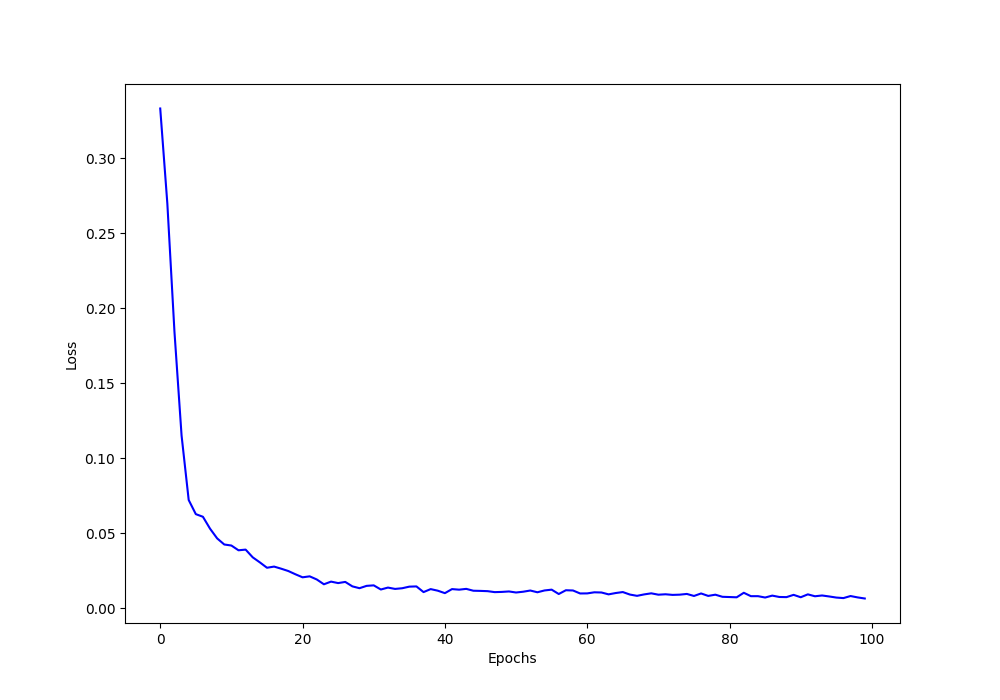
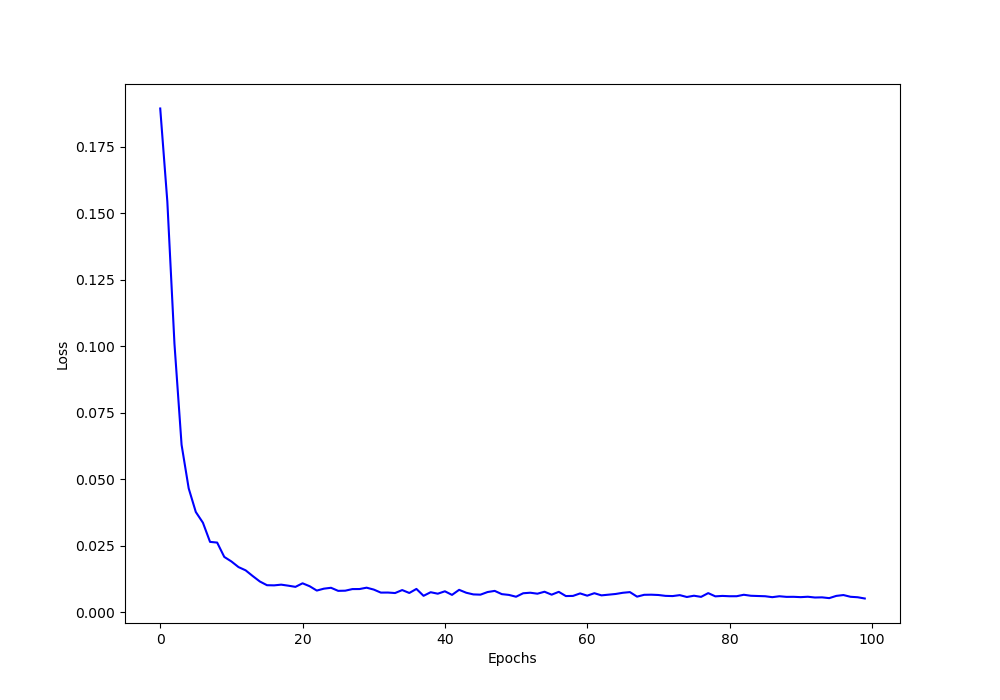
adding new results

diff --git a/main/LSTNet_v1/Test_v1.py b/main/LSTNet_v1/Test_v1.py
@@ -11,8 +11,8 @@ import seaborn as sns
 from datetime import datetime, timedelta
 from tqdm import tqdm
 
-from Dataloader_v2 import BaseCOVDataset
-from LSTNet_v2 import LSTNet_v2
+from Dataloader_v1 import BaseCOVDataset
+from LSTNet_v1 import LSTNet_v1
 
 import torch
 from torch.utils.data import Dataset, DataLoader
@@ -23,7 +23,7 @@ parser.add_argument('--GT_trends', default=None, type=str,
                     help='Define which Google Trends terms to use: all, related_average, or primary (default)')
 parser.add_argument('--batch_size', default=3, type=int,
                     help='Speficy the bath size for the model to train to')
-parser.add_argument('--model_load', default='LSTNet_v2_epochs_100_MSE', type=str,
+parser.add_argument('--model_load', default='LSTNet_v1_epochs_100_MSE', type=str,
                     help='Define which model to evaluate')
 
 args = parser.parse_args()
@@ -83,7 +83,7 @@ data_movement_change = data_movement_change.drop('poly_id', axis=1)
 
 ### Load Google Trends data for Bogota
 if args.GT_trends == None:
-    data_GT = pd.read_csv(data_GT_path, usecols=['date_time','anosmia','fiebre','covid','neumonia','sintomas covid'])
+    data_GT = pd.read_csv(data_GT_path, usecols=['date_time','anosmia','fiebre','covid'])
 elif args.GT_trends == 'all':
     data_GT = pd.read_csv(data_GT_path)
     data_GT = data_GT.drop('Unnamed: 0', axis=1)
@@ -117,8 +117,8 @@ print(f'Data from {start_dt} to {end_dt}')
 #--------------------------------------------------------------------------------------------------
 #----------------------------------------- Load model ----------------------------------------------
 
-model_path = os.path.join(main_path,'main','LSTNet_v2','Models','{}.pth'.format(args.model_load))
-model = LSTNet_v2()
+model_path = os.path.join(main_path,'main','LSTNet_v1','Models','{}.pth'.format(args.model_load))
+model = LSTNet_v1()
 model.load_state_dict(torch.load(model_path))
 
 #--------------------------------------------------------------------------------------------------
@@ -130,8 +130,7 @@ min_cases = data_input['num_cases_7dRA'].min() ; max_cases = data_input['num_cas
 min_diseased = data_input['num_diseased_7dRA'].min() ; max_diseased = data_input['num_diseased_7dRA'].max()
 min_movement = data_input['movement_change_7dRA'].min() ; max_movement = data_input['movement_change_7dRA'].max()
 min_anosmia = data_input['anosmia'].min() ; max_anosmia = data_input['anosmia'].max()
-min_neumonia = data_input['neumonia'].min() ; max_neumonia = data_input['neumonia'].max()
-min_sintomas = data_input['sintomas covid'].min() ; max_sintomas = data_input['sintomas covid'].max()
+# min_tos = data_input['tos'].min() ; max_tos = data_input['tos'].max()
 min_fiebre = data_input['fiebre'].min() ; max_fiebre = data_input['fiebre'].max()
 min_covid = data_input['covid'].min() ; max_covid = data_input['covid'].max()
 
@@ -139,8 +138,7 @@ data_input.loc[:,'num_cases-N'] = (data_input['num_cases_7dRA']-min_cases)/(max_
 data_input.loc[:,'num_diseased-N'] = (data_input['num_diseased_7dRA']-min_diseased)/(max_diseased-min_diseased)
 data_input.loc[:,'movement-N'] = (data_input['movement_change_7dRA']-min_movement)/(max_movement-min_movement)
 data_input.loc[:,'anosmia-N'] = (data_input['anosmia']-min_anosmia)/(max_anosmia-min_anosmia)
-data_input.loc[:,'neumonia-N'] = (data_input['neumonia']-min_neumonia)/(max_neumonia-min_neumonia)
-data_input.loc[:,'sintomas_covid-N'] = (data_input['sintomas covid']-min_neumonia)/(max_neumonia-min_neumonia)
+# # data_input.loc[:,'tos-N'] = (data_input['tos']-min_tos)/(max_tos-min_tos)
 data_input.loc[:,'fiebre-N'] = (data_input['fiebre']-min_fiebre)/(max_fiebre-min_fiebre)
 data_input.loc[:,'covid-N'] = (data_input['covid']-min_covid)/(max_covid-min_covid)
 
@@ -152,35 +150,48 @@ data_loader = DataLoader(dataset, batch_size=args.batch_size, shuffle=False)
 
 #--------------------------------------------------------------------------------------------------
 #----------------------------------------- Test model ---------------------------------------------
-
-pred_forecast = predict(model, data_loader, min_cases, max_cases)
-
-pred_forecast['date_time'] = pd.Series(pred_forecast.index).apply(lambda x: \
-                                    data_all['date_time'][x+18])
-pred_forecast = pred_forecast[['date_time','forecast_cases']]
-
-#--------------------------------------------------------------------------------------------------
-#-------------------------------------- Viz predictions -------------------------------------------
+def mean_absolute_percentage_error(y_true, y_pred): 
+    y_true, y_pred = np.array(y_true), np.array(y_pred)
+    return np.mean(np.abs((y_true - y_pred) / y_true)) * 100
 
 time_mask = datetime.strptime('2021-04-04','%Y-%m-%d')
 data_mask = data_input['date_time'] >= time_mask
 actual_data = data_input[data_mask].copy()
 actual_data['date_time'] = pd.to_datetime(actual_data['date_time'], format='%Y-%m-%d')
-pred_mask = pred_forecast['date_time'] >= time_mask
-predict_data = pred_forecast[pred_mask].copy()
-predict_data['date_time'] = pd.to_datetime(predict_data['date_time'], format='%Y-%m-%d')
 
-# Calculate MSE
-true_arr = np.array(actual_data['num_cases_7dRA'].tolist())
-pred_arr = np.array(predict_data['forecast_cases'].tolist())
-difference_array = np.subtract(true_arr, pred_arr)
-squared_array = np.square(difference_array)
-mse = squared_array.mean()
+NRUNS = 50
+df_preds = []
+for i in range(NRUNS):
 
-print('MSE: ' + str(mse))
+    pred_forecast = predict(model, data_loader, min_cases, max_cases)
+
+    pred_forecast['date_time'] = pd.Series(pred_forecast.index).apply(lambda x: \
+                                        data_all['date_time'][x+18])
+    pred_forecast = pred_forecast[['date_time','forecast_cases']]
+
+    #--------------------------------------------------------------------------------------------------
+    #-------------------------------------- Save predictions -------------------------------------------
+
+    pred_mask = pred_forecast['date_time'] >= time_mask
+    predict_data = pred_forecast[pred_mask].copy()
+    predict_data['date_time'] = pd.to_datetime(predict_data['date_time'], format='%Y-%m-%d')
+
+    # Calculate MSE
+    true_arr = np.array(actual_data['num_cases_7dRA'].tolist())
+    pred_arr = np.array(predict_data['forecast_cases'].tolist())
+    mape = mean_absolute_percentage_error(true_arr,pred_arr)
+    print('MAPE: ' + str(mape))
+
+    # Save
+    predict_data['run'] = ['run_{}'.format(i)]*len(predict_data)
+    predict_data['MAPE'] = [mape]*len(predict_data)
+    df_preds.append(predict_data)
+
+df_preds = pd.concat(df_preds)
+
+
 
 # Plot
-
 data_plot = data_input[data_input['date_time'] >  datetime.strptime('2021-01-01','%Y-%m-%d')]
 
 plt.rc('grid', color='w', linestyle='solid')
@@ -190,7 +201,7 @@ ax.plot(predict_data['date_time'],predict_data['forecast_cases'], color='darkora
 ax.legend(loc='best', fontsize=15)
 ax.set_xlabel('Days', fontsize=18)
 ax.set_ylabel('Number of cases', fontsize=18)
-plt.savefig(os.path.join(main_path,'main','LSTNet_v2','Log','Figures',
+plt.savefig(os.path.join(main_path,'main','LSTNet_v1','Log','Figures',
                                 f'Predictions_{args.model_load}.png'))
 
 print('end')

diff --git a/main/LSTNet_v1/Train_v1.py b/main/LSTNet_v1/Train_v1.py
@@ -15,9 +15,9 @@ from tqdm import tqdm
 # from main.LSTNet_v1.Dataloader_v1 import BaseCOVDataset
 # from main.LSTNet_v1.LSTNet_v1 import LSTNet_v1
 
-from utils_v2 import related_trends
-from Dataloader_v2 import BaseCOVDataset
-from LSTNet_v2 import LSTNet_v2
+from utils_v1 import related_trends
+from Dataloader_v1 import BaseCOVDataset
+from LSTNet_v1 import LSTNet_v1
 
 import torch
 import torch.nn as nn
@@ -55,21 +55,21 @@ def train(model, dataloader, epochs, optimizer, criterion, savename, device):
             loss.backward()
             optimizer.step()
 
-            with open(os.path.join(main_path,'main','LSTNet_v2','Log/Running-Loss.txt'), 'a+') as file:
+            with open(os.path.join(main_path,'main','LSTNet_v1','Log/Running-Loss.txt'), 'a+') as file:
                 file.write(f'{loss.item()}\n')
             epoch_loss_train += loss.item()
             
         epoch_loss_train = epoch_loss_train / len(dataloader)
         train_loss_list.append(epoch_loss_train)
         
-        with open(os.path.join(main_path,'main','LSTNet_v2','Log/Epoch-Loss.txt'), 'a+') as file:
+        with open(os.path.join(main_path,'main','LSTNet_v1','Log/Epoch-Loss.txt'), 'a+') as file:
             file.write(f'{epoch_loss_train}\n')
 
         print('Train loss: {:.3f}'.format(epoch_loss_train))
 
     # Save model
-    model_name = f'LSTNet_v2_epochs_{epochs}_{savename}.pth'
-    save_path  = os.path.join(main_path,'main','LSTNet_v2','Models',model_name)
+    model_name = f'LSTNet_v1_epochs_{epochs}_{savename}.pth'
+    save_path  = os.path.join(main_path,'main','LSTNet_v1','Models',model_name)
     torch.save(model.state_dict(), save_path)
 
     return train_loss_list
@@ -109,7 +109,7 @@ data_movement_change = data_movement_change.drop('poly_id', axis=1)
 
 ### Load Google Trends data for Bogota
 if args.GT_trends == None:
-    data_GT = pd.read_csv(data_GT_path, usecols=['date_time','anosmia','fiebre','covid','neumonia','sintomas covid'])
+    data_GT = pd.read_csv(data_GT_path, usecols=['date_time','anosmia','fiebre','covid'])
 elif args.GT_trends == 'all':
     data_GT = pd.read_csv(data_GT_path)
     data_GT = data_GT.drop('Unnamed: 0', axis=1)
@@ -151,8 +151,7 @@ min_cases = train_data['num_cases_7dRA'].min() ; max_cases = train_data['num_cas
 min_diseased = train_data['num_diseased_7dRA'].min() ; max_diseased = train_data['num_diseased_7dRA'].max()
 min_movement = train_data['movement_change_7dRA'].min() ; max_movement = train_data['movement_change_7dRA'].max()
 min_anosmia = train_data['anosmia'].min() ; max_anosmia = train_data['anosmia'].max()
-min_neumonia = train_data['neumonia'].min() ; max_neumonia = train_data['neumonia'].max()
-min_sintomas = train_data['sintomas covid'].min() ; max_sintomas = train_data['sintomas covid'].max()
+# min_tos = train_data['tos'].min() ; max_tos = train_data['tos'].max()
 min_fiebre = train_data['fiebre'].min() ; max_fiebre = train_data['fiebre'].max()
 min_covid = train_data['covid'].min() ; max_covid = train_data['covid'].max()
 
@@ -160,8 +159,7 @@ train_data.loc[:,'num_cases-N'] = (train_data['num_cases_7dRA']-min_cases)/(max_
 train_data.loc[:,'num_diseased-N'] = (train_data['num_diseased_7dRA']-min_diseased)/(max_diseased-min_diseased)
 train_data.loc[:,'movement-N'] = (train_data['movement_change_7dRA']-min_movement)/(max_movement-min_movement)
 train_data.loc[:,'anosmia-N'] = (train_data['anosmia']-min_anosmia)/(max_anosmia-min_anosmia)
-train_data.loc[:,'neumonia-N'] = (train_data['neumonia']-min_neumonia)/(max_neumonia-min_neumonia)
-train_data.loc[:,'sintomas_covid-N'] = (train_data['sintomas covid']-min_neumonia)/(max_neumonia-min_neumonia)
+# # # train_data.loc[:,'tos-N'] = (train_data['tos']-min_tos)/(max_tos-min_tos)
 train_data.loc[:,'fiebre-N'] = (train_data['fiebre']-min_fiebre)/(max_fiebre-min_fiebre)
 train_data.loc[:,'covid-N'] = (train_data['covid']-min_covid)/(max_covid-min_covid)
 
@@ -173,7 +171,7 @@ train_data_loader = DataLoader(train_dataset, batch_size=args.batch_size, shuffl
 #--------------------------------------- Training model -------------------------------------------
 
 device = torch.device('cuda' if torch.cuda.is_available() else 'cpu')
-model = LSTNet_v2()
+model = LSTNet_v1()
 # model = model.to(device)
 
 epochs = args.epochs
@@ -186,12 +184,12 @@ optimizer = optim.Adadelta(model.parameters(), lr=lr, weight_decay=weight_decay)
 
 print('\nTraining model...')
 train_loss = train(model,train_data_loader, epochs, optimizer, criterion, savename, device)
-joblib.dump(train_loss, os.path.join(main_path,'main','LSTNet_v2','Log',f'Training_Loss_epochs_{epochs}_{savename}.pkl'))
+joblib.dump(train_loss, os.path.join(main_path,'main','LSTNet_v1','Log',f'Training_Loss_epochs_{epochs}_{savename}.pkl'))
 
 # loss plots
 plt.figure(figsize=(10, 7))
 plt.plot(train_loss, color='b', label='train loss')
 plt.xlabel('Epochs')
 plt.ylabel('Loss')
-plt.savefig(os.path.join(main_path,'main','LSTNet_v2','Log','Figures',
+plt.savefig(os.path.join(main_path,'main','LSTNet_v1','Log','Figures',
                                 f'Training_Loss_epochs_{epochs}_{savename}.png'))

diff --git a/main/LSTNet_v1/utils_v1.py b/main/LSTNet_v1/utils_v1.py
@@ -1,0 +1,50 @@
+import itertools
+import numpy as np
+import pandas as pd
+
+def related_trends(search_terms, main_terms, trends, r_list):
+    df_related_trends_avg = []
+    for r in r_list:
+        # Get related trend
+        _, related_trend_avg, trend_name = get_related_trend(search_terms, main_terms, trends, r)
+        # save
+        df_trend = pd.DataFrame()
+        df_trend['date'] = related_trend_avg['date']
+        df_trend[trend_name] = related_trend_avg['weighted_avg']
+        df_trend = df_trend.set_index('date')
+        df_related_trends_avg.append(df_trend)
+    df_related_trends_avg = pd.concat(df_related_trends_avg)
+    return df_related_trends_avg
+
+
+def get_related_trend(search_terms, main_terms, trends, r_in):
+    entry_terms = search_terms.columns.values[1:]
+    map_term_2_r = dict(zip(search_terms['term'], search_terms['r']))
+    map_r_2_term = dict(zip(main_terms['r'], main_terms['id']))
+    # Get related terms
+    df_related_terms = []
+    maximuns = []
+    for kw in entry_terms:
+        if r_in == map_term_2_r[kw]:
+            kw_trend = trends[kw]; kw_trend = kw_trend.reset_index()
+            kw_trend["date"] = pd.to_datetime( kw_trend["date"] ) 
+            kw_trend['rw']   = kw_trend[kw].rolling(window=7).mean()
+            kw_trend['term'] = [kw]*len(kw_trend)
+            kw_trend = kw_trend.drop(columns=[kw])
+            df_related_terms.append(kw_trend)
+            maximuns.append( kw_trend['rw'].max()/100 )
+    df_related_terms = pd.concat( df_related_terms )
+    df_weighted_avg  = get_weighted_average(df_related_terms, maximuns)
+    df_weighted_avg_res = pd.DataFrame()
+    df_weighted_avg_res['date'] = df_weighted_avg['date']
+    df_weighted_avg_res['weighted_avg'] = df_weighted_avg[0]
+    main_trend_name = map_r_2_term[r]
+    return df_related_terms, df_weighted_avg_res, main_trend_name
+
+
+def get_weighted_average(df_entry, maximuns):
+    df_mean = df_entry.copy()
+    df_mean = df_mean.dropna()
+    df_mean["weights"] = list(itertools.chain(*[[w]*(len(df_mean)//len(maximuns)) for w in maximuns]))  
+    df_wa = df_mean.groupby(['date']).apply(lambda x: pd.Series([ np.average(x['rw'], weights=x['weights']) ]) ).reset_index()
+    return df_wa

diff --git a/main/LSTNet_v1/Dataloader_v1.py b/main/LSTNet_v1/Dataloader_v1.py
@@ -12,7 +12,7 @@ class BaseCOVDataset(Dataset):
         return self.len
     
     def __getitem__(self, index):
-        x_cols = ['num_cases-N', 'num_diseased-N', 'movement-N', 'covid-N', 'anosmia-N', 'neumonia-N', 'sintomas_covid-N', 'fiebre-N']
+        x_cols = ['num_cases-N', 'num_diseased-N', 'movement-N', 'covid-N', 'anosmia-N', 'fiebre-N']
         y_cols = ['num_cases-N']
         x = self.data.iloc[index: index+self.history_len, :][x_cols].values
         y = self.data.iloc[index+self.history_len, :][y_cols].values.astype('float')

diff --git a/main/LSTNet_v1/LSTNet_v1.py b/main/LSTNet_v1/LSTNet_v1.py
@@ -4,11 +4,11 @@ import torch
 import torch.nn as nn
 import torch.nn.functional as F
 
-class LSTNet_v2(nn.Module):
+class LSTNet_v1(nn.Module):
     
     def __init__(self):
-        super(LSTNet_v2, self).__init__()
-        self.num_features = 8
+        super(LSTNet_v1, self).__init__()
+        self.num_features = 6
         self.conv1_out_channels = 32 
         self.conv1_kernel_height = 7
         self.recc1_out_channels = 64 
